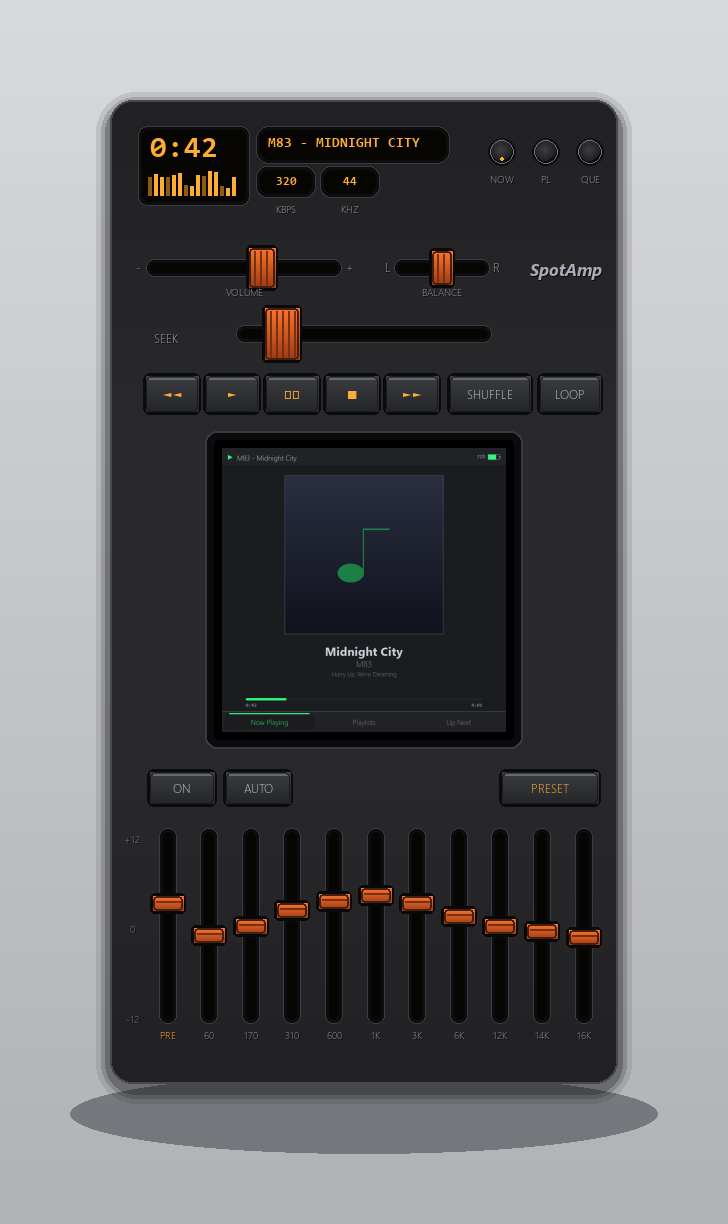
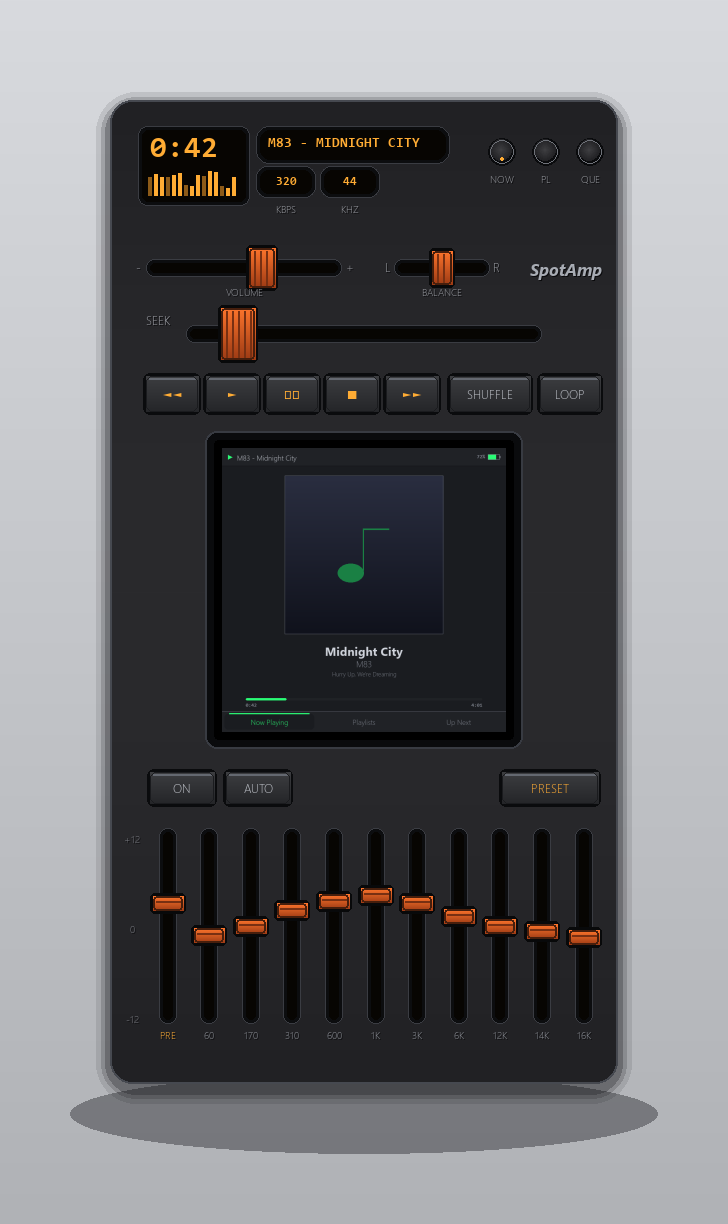
feat(hw): custom belt-drive seek mechanism — full-width slot at 127mm
Owner's insight: packaged motorized faders waste ~46mm beyond travel on the
in-line motor. Replace with a slim manual long-travel pot (~85mm) + remote N20
motor + GT2 belt loop behind the panel (a mini printer axis) — the seek slot
now spans ~70% of the face at the beloved width. Electronics/firmware
unchanged (same wiper feedback, DRV8833, PID). Critical bench item documented:
backdrivability via slip-clutch pulley. PARTS: ALPS motorized faders removed
entirely; mechanism parts added (~-\$5 net and every mechanical part printable
-> machinable). Drawing + render + enclosure notes updated.

Changed region(s): [[0.2115, 0.2484, 0.4231, 0.3105], [0.6648, 0.2484, 0.7555, 0.2794]]

diff --git a/hardware/cad/render_product.py b/hardware/cad/render_product.py
@@ -127,9 +127,9 @@ bx, by = mm(114, 42)
 canvas.blit(bd, (bx - bs.get_width() // 2 + 1, by - bs.get_height() // 2 + 1))
 canvas.blit(bs, (bx - bs.get_width() // 2, by - bs.get_height() // 2))
 
-# SEEK — the motorized one, big cap
-sk = hslot(32.5, 58.5, 62, 0.17, 34, 52)
-engrave("SEEK", mm(14, 57)[0], mm(57, 57)[1] + 2, F_ENG)
+# SEEK — custom belt-drive: near-full-width slot
+sk = hslot(20, 58.5, 87, 0.14, 34, 52)
+engrave("SEEK", mm(12, 53)[0], mm(52, 53)[1], F_ENG)
 
 # transport keycaps
 def keycap(x_mm, y_mm, w_mm, h_mm, glyph, gcol=AMB):

diff --git a/hardware/enclosure.md b/hardware/enclosure.md
@@ -140,12 +140,32 @@ Implementation notes:
   `DISP` data already carries everything; the region map is a table in
   `firmware/src/config.h` when formalized).
 
-## Seek fader travel (decision note)
+## The seek mechanism (owner's design, 2026-07-17): custom belt drive
 
-60 mm travel (RS60N, current) keeps the panel at 127 mm. The 100 mm option
-(RSA0N11M9A0K, body **146.5 mm**, mounts 120 mm) would span ~65 % of the face —
-very Yanko — but forces **~157 mm panel width** and drops the screen to ~46 % of
-the face. Decided by the owner's print; default = 60 mm at 127.
+Off-the-shelf motorized faders package the motor IN-LINE with the track — the
+RS60N wastes 46 mm of length beyond its travel, and the 100 mm RSA0N is 146.5 mm
+long. **We build the drive ourselves instead** (this is how flying faders work
+internally anyway):
+
+- **Panel part**: a slim **manual long-travel slide pot** (~85–90 mm travel,
+  body ≤ 118 mm — VERIFY candidate part) → the slot spans ~70 % of the face at
+  the 127 mm width. Wiper = position feedback (mux, as always); metal knob =
+  touch electrode (MPR121).
+- **Drive**: micro gearmotor (N20-class) + 2× GT2 16T pulleys + a GT2 belt loop
+  behind the panel, with a printed clamp tying the belt to the fader lever — a
+  miniature 3D-printer axis. Motor mounts beside/behind; envelope ~120 × 14 mm
+  (REF box in the cut drawing).
+- **Electronics/firmware unchanged**: DRV8833 + the existing PID loop drive it
+  identically to a packaged motorized fader.
+- ⚠️ **The critical detail — backdrivability**: the user must be able to grab
+  the fader anytime. High-ratio gearmotors lock. Prototype in this order:
+  (1) **slip-clutch pulley** — printed friction hub on the motor pulley (what
+  ALPS does internally); (2) low-ratio (≤30:1) or coreless motor that
+  backdrives freely; (3) touch-triggered release as backup. **Bench-prove the
+  clutch before committing the panel.**
+- Benefits: −$20 ALPS fader → +~$15 of motor/belt/pulleys, every mechanical
+  part printable now and machinable later, and the seek slot finally matches
+  the concept's proportions.
 
 ## Knobs & finish
 

diff --git a/hardware/PARTS.md b/hardware/PARTS.md
@@ -39,17 +39,25 @@ Datasheets for everything here: run [`datasheets/fetch.sh`](datasheets/) and see
 > Adafruit doesn't stock: motorized faders, the SSD1322 OLED, the UPS, or bare
 > 18650 cells — those come from the vendors below.
 
-## 🛒 DigiKey (or Mouser) — the faders
+## 🛒 The seek mechanism (custom belt drive — see enclosure.md)
 
-| Part | SKU | Qty | ~$ ea | ~$ |
-|---|---|---|---|---|
-| ALPS **RS60N11M9A0F** — 60 mm-travel motorized fader, 10 kΩ, touch-sense lever | [DigiKey](https://www.digikey.com/en/products/detail/alps-alpine/RS60N11M9A0F/19529099) | 10 | 20–25 | 200–250 |
+| Part | Source | Qty | ~$ |
+|---|---|---|---|
+| Manual long-travel slide pot, 10 kΩ linear, ~85–90 mm travel, body ≤118 mm (**VERIFY**) | DigiKey/Mouser (Bourns PTB-class) or Soundwell | 1 (+1 spare) | 4–8 |
+| N20 micro gearmotor, 6 V, low ratio (≤30:1) — backdrivable | Amazon/Pololu | 2 (spare) | 8 |
+| GT2 16T pulleys ×2 + GT2 belt (200 mm loop) | printer-parts vendors | 1 set | 6 |
+| Slip-clutch hub | 3D-printed (design ours) | — | — |
 
-- **Buy 1 first, test, then buy 9** (per the BOM's sourcing advice).
-- Alternate if stock is thin: **Bourns PSM60-081A-103B2** (60 mm motorized, similar
-  footprint — re-verify touch-sense wiring).
-- ⚠️ Do **not** substitute the RSA0N11M9 series — that's the 100 mm-travel version
-  and won't fit the body.
+> **No packaged motorized faders in the build anymore** — the EQ/volume/balance
+> are slim manual pots and seek is the custom drive. Bench-prove the slip clutch
+> with these parts before cutting the panel.
+
+## 🛒 Slim pots (EQ ×11 + volume + balance)
+
+| Part | Source | Qty | ~$ |
+|---|---|---|---|
+| Slim slide pot, 45 mm travel, 10 kΩ linear (9 mm body) | DigiKey/Mouser/Soundwell | 13 (11 EQ + vol + spare) | 20–30 |
+| Mini slide pot, 20 mm travel (balance) | same | 1 | 2 |
 
 ## 🛒 Geekworm — power
 